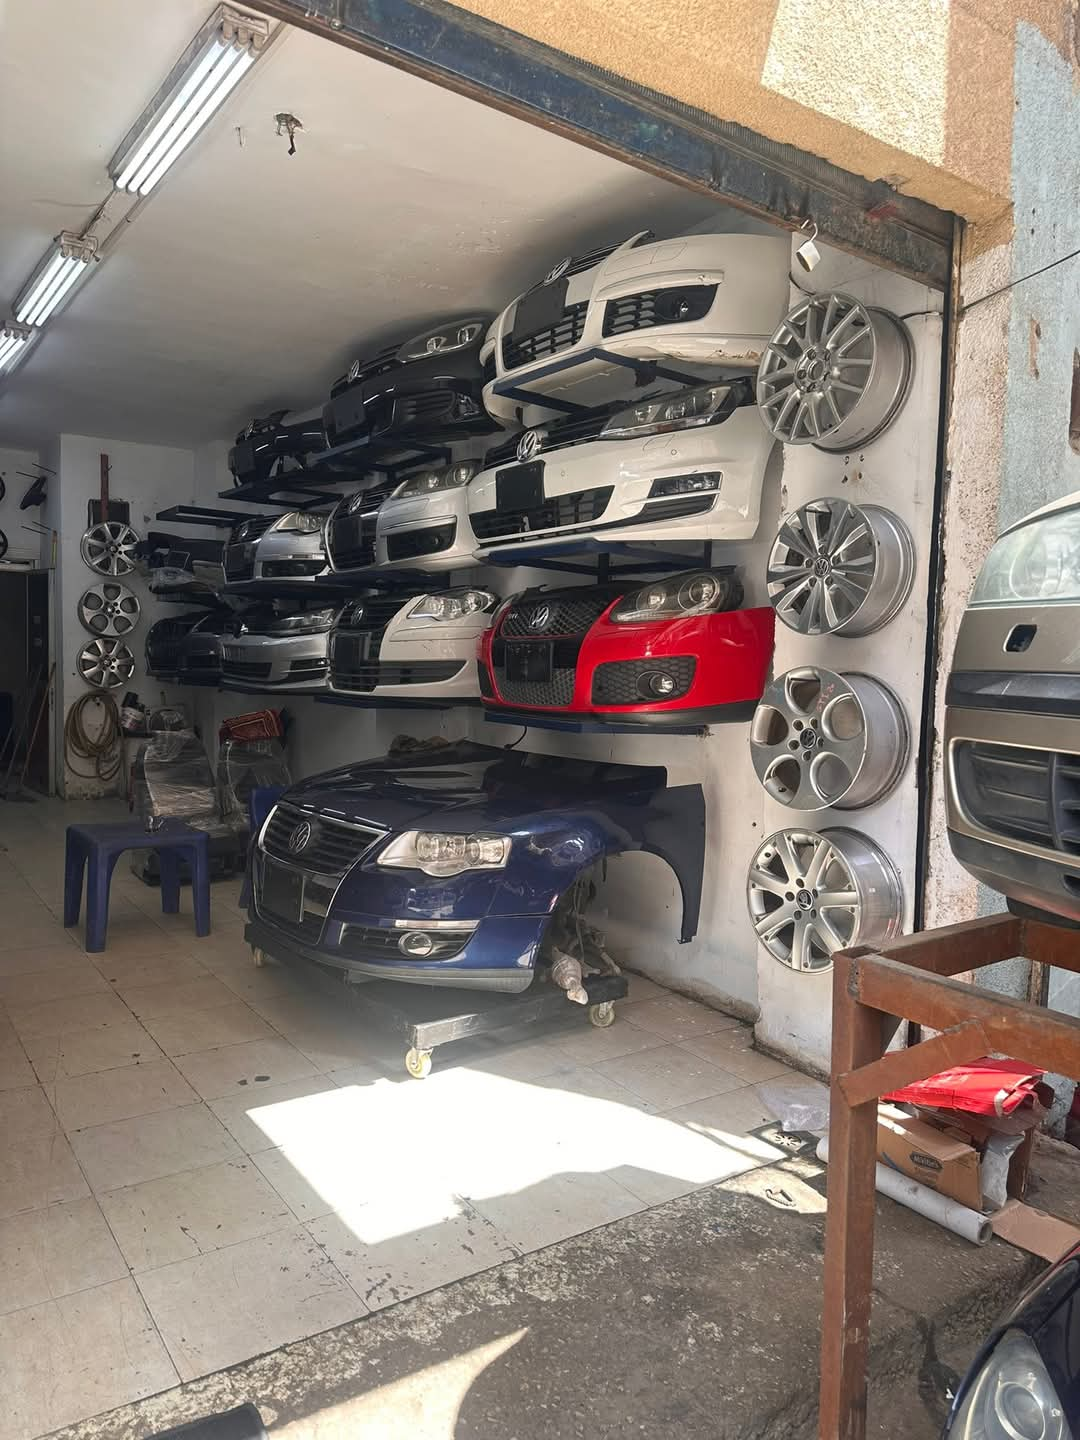
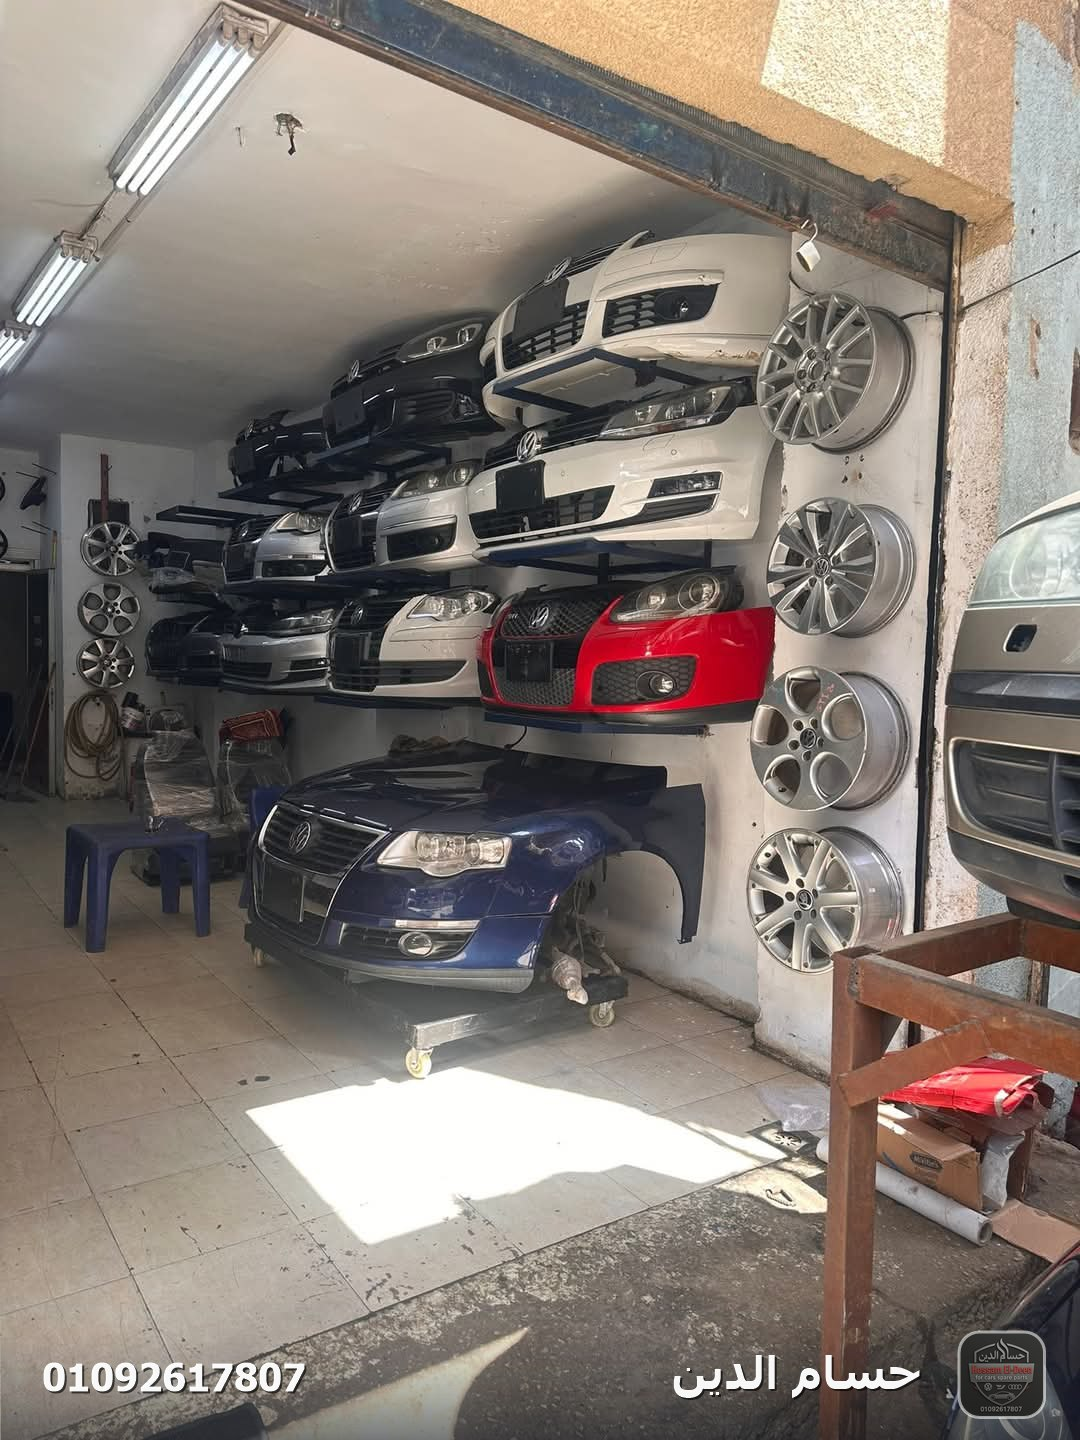
Watermark every photo and stop the easy image saves
Uploads now get the shop logo, name and phone burned into the bottom
of the image, the bundled photos were stamped the same way, and the
tour tab gains a button that re-stamps the photos already uploaded.
On the storefront, images no longer offer a long-press or right-click
save and cannot be dragged out. Screenshots themselves stay possible.

Changed region(s): [[0.0, 0.9062, 1.0, 1.0]]

diff --git a/admin.js b/admin.js
@@ -179,6 +179,7 @@
     body.innerHTML = '<div class="panel"><h2>صور جولة داخل المحل</h2>' +
       '<p class="meta">الصور دى بتظهر للعملاء فى قسم «جولة داخل المحل». اختار صورة أو أكتر وهتترفع على طول.</p>' +
       '<label class="btn block" style="cursor:pointer">＋ إضافة صور<input id="tfiles" type="file" accept="image/*" multiple hidden></label>' +
+      '<button type="button" class="btn ghost block" id="tstamp" style="margin-top:8px">حط اسم المحل على الصور القديمة</button>' +
       '<div class="err" id="terr" style="margin:8px 0"></div>' +
       '<div class="thumbs big">' + (tour.length ? tour.map(function (t) {
         return '<div class="thumb' + (t.is_cover ? ' is-cover' : '') + '"><img src="' + esc(t.url) + '" alt="">' +
@@ -198,6 +199,49 @@
       }).catch(function (error) {
         err.textContent = 'تعذر رفع الصور: ' + (error && error.message ? error.message : 'خطأ غير معروف');
       });
+    });
+    document.getElementById('tstamp').addEventListener('click', function () {
+      var btn = this, err = document.getElementById('terr');
+      var jobs = [];
+      tour.forEach(function (t) { if (storagePath(t.url)) jobs.push({ kind: 'tour', id: t.id, url: t.url }); });
+      parts.forEach(function (p) {
+        (p.images || []).forEach(function (u, k) { if (storagePath(u)) jobs.push({ kind: 'part', id: p.id, i: k, url: u }); });
+      });
+      var skipped = tour.length + parts.reduce(function (s, p) { return s + (p.images || []).length; }, 0) - jobs.length;
+      if (!jobs.length) { err.textContent = 'مفيش صور مرفوعة محتاجة علامة'; return; }
+      if (!confirm('هيتحط اسم المحل ورقمه على ' + jobs.length + ' صورة. العملية دى مش بترجع. تكمل؟')) return;
+      btn.disabled = true;
+      var ok = 0, bad = 0;
+      (function next(i) {
+        if (i >= jobs.length) {
+          btn.disabled = false;
+          err.textContent = 'خلصت: ' + ok + ' صورة اتعملت' + (bad ? '، و' + bad + ' فشلت' : '') +
+            (skipped ? '، و' + skipped + ' صورة أصلية مش مرفوعة اتتخطت' : '');
+          loadAll();
+          return;
+        }
+        err.textContent = 'جارى المعالجة ' + (i + 1) + ' من ' + jobs.length + '...';
+        var j = jobs[i];
+        restamp(j.url).then(function (r) {
+          if (!r) return;
+          if (j.kind === 'tour') {
+            return db.from('tour_photos').update({ url: r.url }).eq('id', j.id).then(function (up) {
+              if (up.error) throw up.error;
+              db.storage.from('parts').remove([r.old]);
+              ok++;
+            });
+          }
+          var p = parts.filter(function (x) { return x.id === j.id; })[0];
+          var imgs = (p.images || []).slice();
+          imgs[j.i] = r.url;
+          return db.from('parts').update({ images: imgs }).eq('id', j.id).then(function (up) {
+            if (up.error) throw up.error;
+            p.images = imgs;
+            db.storage.from('parts').remove([r.old]);
+            ok++;
+          });
+        }).then(function () { next(i + 1); })['catch'](function () { bad++; next(i + 1); });
+      })(0);
     });
     // اختيار الكفر: صورة واحدة بس هى اللى بتبقى كفر الموقع
     body.querySelectorAll('.t-cov').forEach(function (b) {
@@ -285,19 +329,91 @@
 
   // ---------- نموذج القطعة ----------
   // تصغير الصورة قبل الرفع عشان الموقع يفضل سريع
+  function roundRect(ctx, x, y, w, h, r) {
+    ctx.beginPath();
+    ctx.moveTo(x + r, y);
+    ctx.arcTo(x + w, y, x + w, y + h, r);
+    ctx.arcTo(x + w, y + h, x, y + h, r);
+    ctx.arcTo(x, y + h, x, y, r);
+    ctx.arcTo(x, y, x + w, y, r);
+    ctx.closePath();
+  }
+  // علامة مائية: الشعار واسم المحل على اليمين، والرقم على الشمال
+  function stamp(c) {
+    var ctx = c.getContext('2d'), w = c.width, h = c.height;
+    var fs = Math.max(12, Math.round(w * 0.038));
+    var pad = Math.round(fs * 0.75);
+    var band = Math.round(fs * 3.4);
+    var g = ctx.createLinearGradient(0, h - band, 0, h);
+    g.addColorStop(0, 'rgba(10,14,20,0)');
+    g.addColorStop(1, 'rgba(10,14,20,.62)');
+    ctx.fillStyle = g;
+    ctx.fillRect(0, h - band, w, band);
+    var right = w - pad;
+    if (logoImg) {
+      var ls = Math.round(fs * 1.7);
+      var lx = right - ls, ly = Math.round(h - pad - fs * 0.34 - ls / 2);
+      ctx.save();
+      roundRect(ctx, lx, ly, ls, ls, Math.round(ls * 0.24));
+      ctx.clip();
+      ctx.drawImage(logoImg, lx, ly, ls, ls);
+      ctx.restore();
+      ctx.strokeStyle = 'rgba(255,255,255,.55)';
+      ctx.lineWidth = Math.max(1, Math.round(ls * 0.035));
+      roundRect(ctx, lx, ly, ls, ls, Math.round(ls * 0.24));
+      ctx.stroke();
+      right = lx - Math.round(fs * 0.42);
+    }
+    ctx.textBaseline = 'alphabetic';
+    ctx.shadowColor = 'rgba(0,0,0,.55)';
+    ctx.shadowBlur = Math.round(fs * 0.35);
+    ctx.fillStyle = 'rgba(255,255,255,.95)';
+    ctx.direction = 'rtl';
+    ctx.textAlign = 'right';
+    ctx.font = '700 ' + fs + 'px Cairo, Tahoma, "Segoe UI", sans-serif';
+    ctx.fillText(SHOP.shortName || SHOP.name, right, h - pad);
+    var phone = SHOP.phones && SHOP.phones[0] ? SHOP.phones[0].number : '';
+    if (phone) {
+      ctx.direction = 'ltr';
+      ctx.textAlign = 'left';
+      ctx.font = '700 ' + Math.round(fs * 0.86) + 'px Tahoma, "Segoe UI", sans-serif';
+      ctx.fillText(phone, pad, h - pad);
+    }
+    ctx.shadowBlur = 0;
+  }
+  // الخط العربى والشعار لازم يبقوا جاهزين قبل ما نرسم بيهم على الصورة
+  var logoImg = null;
+  function loadLogo() {
+    if (logoImg) return Promise.resolve(logoImg);
+    return new Promise(function (resolve) {
+      var im = new Image();
+      im.onload = function () { logoImg = im; resolve(im); };
+      im.onerror = function () { resolve(null); };
+      im.src = 'images/logo.jpg';
+    });
+  }
+  function fontsReady() {
+    var f;
+    try { f = document.fonts && document.fonts.ready ? document.fonts.ready : Promise.resolve(); }
+    catch (e) { f = Promise.resolve(); }
+    return Promise.all([f, loadLogo()]);
+  }
   function shrink(file) {
-    return new Promise(function (resolve, reject) {
-      var img = new Image(), url = URL.createObjectURL(file);
-      img.onload = function () {
-        var max = 1280, k = Math.min(1, max / Math.max(img.width, img.height));
-        var c = document.createElement('canvas');
-        c.width = Math.round(img.width * k); c.height = Math.round(img.height * k);
-        c.getContext('2d').drawImage(img, 0, 0, c.width, c.height);
-        URL.revokeObjectURL(url);
-        c.toBlob(function (b) { b ? resolve(b) : reject(new Error('تعذر تجهيز الصورة')); }, 'image/jpeg', 0.82);
-      };
-      img.onerror = function () { URL.revokeObjectURL(url); reject(new Error('الملف ده مش صورة')); };
-      img.src = url;
+    return fontsReady().then(function () {
+      return new Promise(function (resolve, reject) {
+        var img = new Image(), url = URL.createObjectURL(file);
+        img.onload = function () {
+          var max = 1280, k = Math.min(1, max / Math.max(img.width, img.height));
+          var c = document.createElement('canvas');
+          c.width = Math.round(img.width * k); c.height = Math.round(img.height * k);
+          c.getContext('2d').drawImage(img, 0, 0, c.width, c.height);
+          URL.revokeObjectURL(url);
+          stamp(c);
+          c.toBlob(function (b) { b ? resolve(b) : reject(new Error('تعذر تجهيز الصورة')); }, 'image/jpeg', 0.82);
+        };
+        img.onerror = function () { URL.revokeObjectURL(url); reject(new Error('الملف ده مش صورة')); };
+        img.src = url;
+      });
     });
   }
   function uploadOne(file, prefix) {
@@ -306,6 +422,34 @@
       return db.storage.from('parts').upload(path, blob, { contentType: 'image/jpeg' }).then(function (res) {
         if (res.error) throw res.error;
         return db.storage.from('parts').getPublicUrl(path).data.publicUrl;
+      });
+    });
+  }
+  // صورة قديمة مرفوعة: تتسحب وتتختم وتترفع فى مكان جديد، والقديمة تتمسح بعد ما الجديدة تتسجل
+  function restamp(url) {
+    var path = storagePath(url);
+    if (!path) return Promise.resolve(null);
+    return fontsReady().then(function () {
+      return new Promise(function (resolve, reject) {
+        var img = new Image();
+        img.crossOrigin = 'anonymous';
+        img.onload = function () {
+          var max = 1280, k = Math.min(1, max / Math.max(img.width, img.height));
+          var c = document.createElement('canvas');
+          c.width = Math.round(img.width * k); c.height = Math.round(img.height * k);
+          c.getContext('2d').drawImage(img, 0, 0, c.width, c.height);
+          stamp(c);
+          c.toBlob(function (b) { b ? resolve(b) : reject(new Error('تعذر تجهيز الصورة')); }, 'image/jpeg', 0.82);
+        };
+        img.onerror = function () { reject(new Error('تعذر تحميل الصورة')); };
+        img.src = url + (url.indexOf('?') < 0 ? '?' : '&') + 'r=' + Date.now();
+      });
+    }).then(function (blob) {
+      var pre = path.lastIndexOf('/') > -1 ? path.slice(0, path.lastIndexOf('/') + 1) : '';
+      var np = pre + Date.now() + '-' + Math.random().toString(36).slice(2, 8) + '.jpg';
+      return db.storage.from('parts').upload(np, blob, { contentType: 'image/jpeg' }).then(function (res) {
+        if (res.error) throw res.error;
+        return { url: db.storage.from('parts').getPublicUrl(np).data.publicUrl, old: path };
       });
     });
   }

diff --git a/app.js b/app.js
@@ -770,6 +770,13 @@
     '<a class="q-fb"' + ext(SHOP.facebook) + '>' + ic('fb') + ' فيسبوك</a>' +
     SHOP.whatsapp.map(function (n) { return '<a class="q-wa"' + ext('https://wa.me/' + n) + '>' + ic('wa') + ' <bdi dir="ltr">0' + esc(n.slice(2)) + '</bdi></a>'; }).join('') +
     '</div></div>';
+  // الصور مش بتتحفظ بكليك يمين ولا بضغطة طويلة ولا بالسحب
+  document.addEventListener('contextmenu', function (e) {
+    if (e.target && e.target.tagName === 'IMG') e.preventDefault();
+  });
+  document.addEventListener('dragstart', function (e) {
+    if (e.target && e.target.tagName === 'IMG') e.preventDefault();
+  });
   function start() {
     setCart(getCart());
     window.addEventListener('hashchange', route);

diff --git a/style.css b/style.css
@@ -4,6 +4,8 @@
   --ok: #1a8f4c; --bad: #c0392b; --wa: #25d366;
 }
 * { box-sizing: border-box; }
+/* صور الموقع مش بتتحفظ بضغطة طويلة ولا بالسحب (لوحة الإدارة مستثناة) */
+body.shop img { -webkit-touch-callout: none; -webkit-user-drag: none; -webkit-user-select: none; user-select: none; }
 body { margin: 0; background: var(--bg); color: var(--ink); font-family: "Cairo", "Segoe UI", Tahoma, "Noto Sans Arabic", sans-serif; font-size: 16px; line-height: 1.6; }
 a { color: inherit; text-decoration: none; }
 h1, h2, h3 { margin: 0 0 8px; line-height: 1.3; }

diff --git a/index.html b/index.html
@@ -18,7 +18,7 @@
 <link href="https://fonts.googleapis.com/css2?family=Cairo:wght@400;600;700;800&display=swap" rel="stylesheet">
 <link rel="stylesheet" href="style.css">
 </head>
-<body>
+<body class="shop">
 <header class="top">
   <button type="button" id="menuBtn" class="menu-btn" aria-label="القائمة">☰</button>
   <a class="brand" href="#/"><img class="logo-img" src="images/logo.jpg" alt=""><span id="shopName"></span></a>
